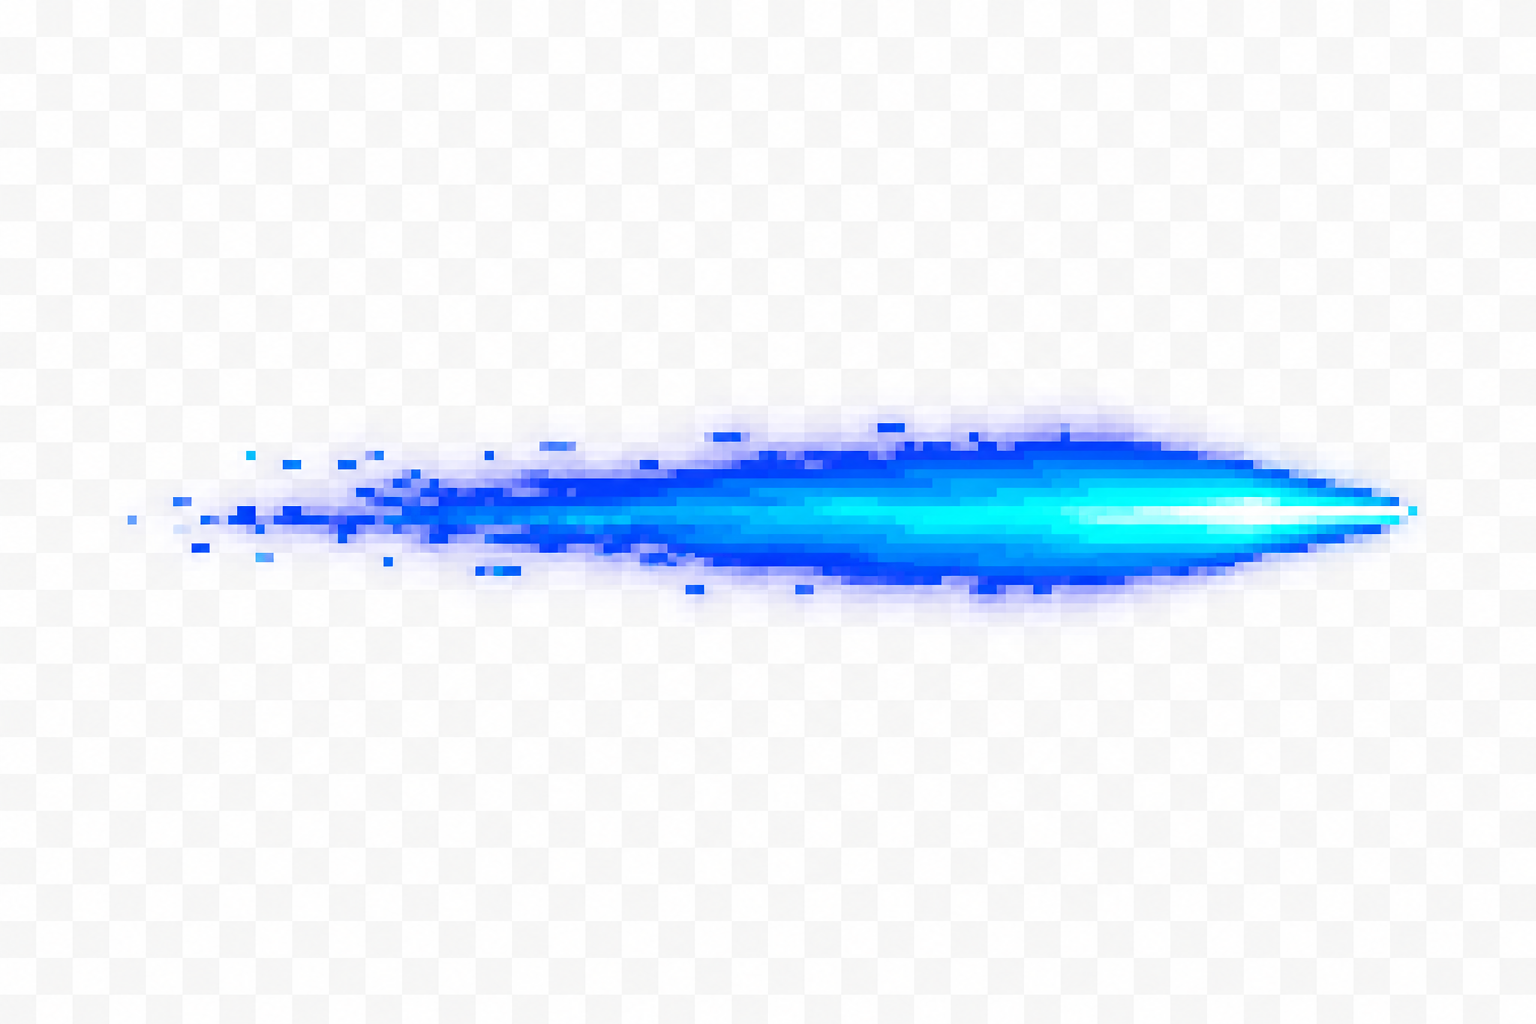
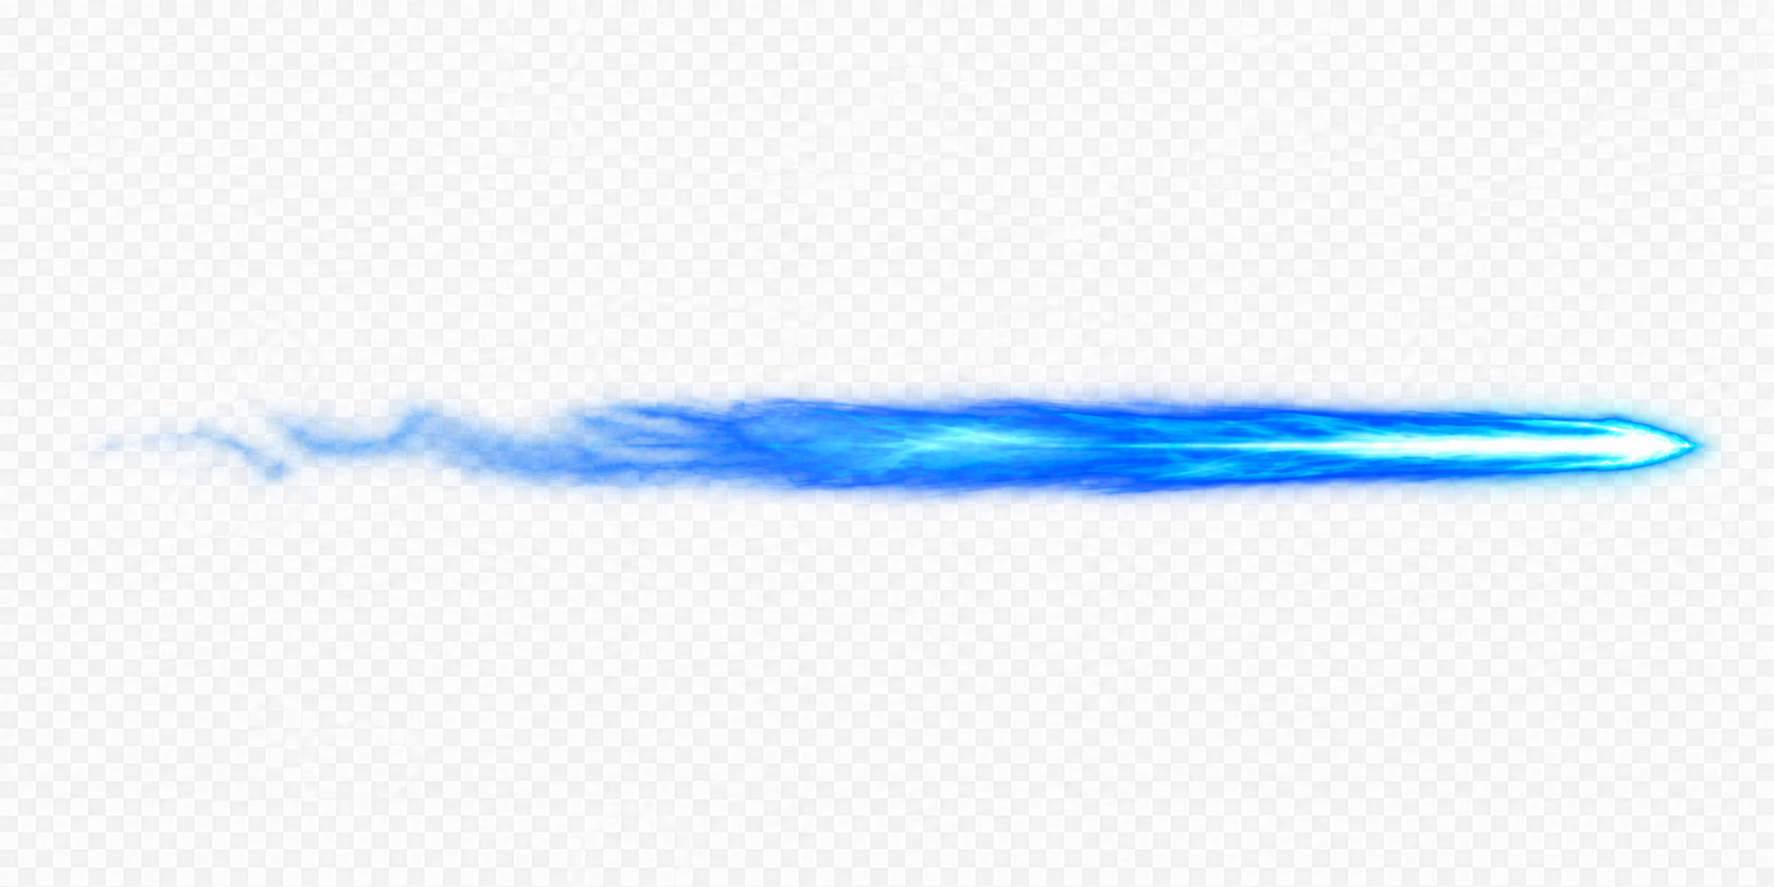
feat(voidspace): animate rebuilt engine exhausts

Changed region(s): [[0.0625, 0.3957, 0.9688, 0.6088]]

diff --git a/voidspace/js/ship.js b/voidspace/js/ship.js
@@ -13,21 +13,23 @@
     isConnected,
   } = ModuleSystem;
   const MODULE_FRAME_SIZE = MODULE_SIZE + 1;
-  const EXHAUST_LENGTH = MODULE_SIZE * 6;
+  const EXHAUST_FPS = 16;
+  const EXHAUST_FRAME_COUNT = 16;
+  const EXHAUST_FRAME_WIDTH = 768;
+  const EXHAUST_FRAME_HEIGHT = 64;
   const LASER_MUZZLE_OFFSET = 21;
   const MODULE_LAYER_CACHE = new WeakMap();
   const EXHAUST_TEXTURE_CACHE = new WeakMap();
   const EXHAUST_TEXTURES = {
     thruster: {
-      streams: [
-        { crop: { x: 112, y: 392, width: 1320, height: 244 }, width: 512, height: 96, offset: 0, drawHeight: 18 },
-      ],
+      nozzleOffsets: [0],
+      attachmentX: -12.5,
+      drawHeight: 12,
     },
     booster: {
-      streams: [
-        { crop: { x: 16, y: 330, width: 1520, height: 170 }, width: 512, height: 96, offset: -7.6, drawHeight: 18 },
-        { crop: { x: 16, y: 458, width: 1520, height: 172 }, width: 512, height: 96, offset: 7.2, drawHeight: 18 },
-      ],
+      nozzleOffsets: [-8.2, 7.6],
+      attachmentX: -12.5,
+      drawHeight: 10.5,
     },
   };
 
@@ -83,35 +85,102 @@
     return layers;
   }
 
-  function createExhaustTexture(image, stream) {
-    const canvas = document.createElement("canvas");
-    canvas.width = stream.width;
-    canvas.height = stream.height;
-    const context = canvas.getContext("2d");
-    const crop = stream.crop;
-    context.drawImage(image, crop.x, crop.y, crop.width, crop.height, 0, 0, stream.width, stream.height);
+  function createExhaustFrames(image) {
+    const sourceWidth = image.naturalWidth || image.width;
+    const sourceHeight = image.naturalHeight || image.height;
+    const source = document.createElement("canvas");
+    source.width = sourceWidth;
+    source.height = sourceHeight;
+    const sourceContext = source.getContext("2d");
+    sourceContext.drawImage(image, 0, 0);
 
-    const imageData = context.getImageData(0, 0, stream.width, stream.height);
+    const imageData = sourceContext.getImageData(0, 0, sourceWidth, sourceHeight);
     const pixels = imageData.data;
+    let minX = sourceWidth;
+    let minY = sourceHeight;
+    let maxX = 0;
+    let maxY = 0;
     for (let index = 0; index < pixels.length; index += 4) {
       const red = pixels[index];
       const green = pixels[index + 1];
       const blue = pixels[index + 2];
-      const signal = Math.max(blue - red, green - red, 0);
-      pixels[index + 3] = signal <= 2 ? 0 : Math.min(255, Math.round((signal - 2) * 18 + 35));
+      const coolLead = Math.max(blue, green) - red;
+      const saturation = Math.max(red, green, blue) - Math.min(red, green, blue);
+      const alpha = coolLead <= 3 || saturation <= 4 ? 0 : Math.min(255, Math.round((coolLead - 3) * 12 + saturation * 0.7));
+      pixels[index + 3] = alpha;
+      if (alpha <= 8) continue;
+      const pixelIndex = index / 4;
+      const x = pixelIndex % sourceWidth;
+      const y = Math.floor(pixelIndex / sourceWidth);
+      minX = Math.min(minX, x);
+      minY = Math.min(minY, y);
+      maxX = Math.max(maxX, x);
+      maxY = Math.max(maxY, y);
     }
-    context.putImageData(imageData, 0, 0);
-    return canvas;
+    sourceContext.putImageData(imageData, 0, 0);
+
+    if (minX > maxX || minY > maxY) return [];
+    const padding = 4;
+    minX = Math.max(0, minX - padding);
+    minY = Math.max(0, minY - padding);
+    maxX = Math.min(sourceWidth - 1, maxX + padding);
+    maxY = Math.min(sourceHeight - 1, maxY + padding);
+
+    const base = document.createElement("canvas");
+    base.width = EXHAUST_FRAME_WIDTH;
+    base.height = EXHAUST_FRAME_HEIGHT;
+    const baseContext = base.getContext("2d");
+    baseContext.imageSmoothingEnabled = true;
+    baseContext.imageSmoothingQuality = "high";
+    baseContext.drawImage(
+      source,
+      minX,
+      minY,
+      maxX - minX + 1,
+      maxY - minY + 1,
+      0,
+      0,
+      EXHAUST_FRAME_WIDTH,
+      EXHAUST_FRAME_HEIGHT,
+    );
+
+    return Array.from({ length: EXHAUST_FRAME_COUNT }, (_, frameIndex) => {
+      const frame = document.createElement("canvas");
+      frame.width = EXHAUST_FRAME_WIDTH;
+      frame.height = EXHAUST_FRAME_HEIGHT;
+      const context = frame.getContext("2d");
+      const phase = (frameIndex / EXHAUST_FRAME_COUNT) * Math.PI * 2;
+      const sliceWidth = 6;
+
+      for (let x = 0; x < EXHAUST_FRAME_WIDTH; x += sliceWidth) {
+        const width = Math.min(sliceWidth, EXHAUST_FRAME_WIDTH - x);
+        const tailInfluence = 1 - x / EXHAUST_FRAME_WIDTH;
+        const yOffset =
+          (Math.sin(x * 0.052 + phase) * 1.6 + Math.sin(x * 0.117 - phase * 1.7) * 0.65) * tailInfluence;
+        const xOffset = Math.sin(x * 0.031 - phase) * 1.2 * tailInfluence;
+        context.drawImage(base, x, 0, width, EXHAUST_FRAME_HEIGHT, x + xOffset, yOffset, width + 0.5, EXHAUST_FRAME_HEIGHT);
+      }
+
+      const pulseX = EXHAUST_FRAME_WIDTH - ((frameIndex + 1) / EXHAUST_FRAME_COUNT) * EXHAUST_FRAME_WIDTH;
+      context.save();
+      context.beginPath();
+      context.rect(pulseX - 64, 0, 128, EXHAUST_FRAME_HEIGHT);
+      context.clip();
+      context.globalCompositeOperation = "lighter";
+      context.globalAlpha = 0.2;
+      context.drawImage(base, 0, 0);
+      context.restore();
+      return frame;
+    });
   }
 
-  function getExhaustTextures(type, image) {
-    if (!image || !EXHAUST_TEXTURES[type]) return null;
+  function getExhaustFrames(image) {
+    if (!image) return null;
     const cached = EXHAUST_TEXTURE_CACHE.get(image);
     if (cached) return cached;
-    const config = EXHAUST_TEXTURES[type];
-    const textures = config.streams.map((stream) => createExhaustTexture(image, stream));
-    EXHAUST_TEXTURE_CACHE.set(image, textures);
-    return textures;
+    const frames = createExhaustFrames(image);
+    EXHAUST_TEXTURE_CACHE.set(image, frames);
+    return frames;
   }
 
   function drawModuleSprite(ctx, image, definition, x, y, rotation, alpha = 1) {
@@ -225,7 +294,7 @@
       this.hp = Math.min(this.hp, this.stats.maxHp);
     }
 
-    update(dt, input, mouseWorld, game) {
+    update(dt, input, mouseWorld) {
       this.aimWorld = { x: mouseWorld.x, y: mouseWorld.y };
       const targetAngle = Math.atan2(mouseWorld.y - this.y, mouseWorld.x - this.x);
       this.angle += Utils.angleDelta(this.angle, targetAngle) * Math.min(1, dt * 12);
@@ -255,11 +324,6 @@
       this.vy *= Math.pow(0.38, dt);
       this.x += this.vx * dt;
       this.y += this.vy * dt;
-
-      if (this.thrusting && Math.random() < dt * 24) {
-        const rear = this.localToWorld(-46, 0);
-        game.particles.push(new VS.Entities.Particle(rear.x, rear.y, -this.vx * 0.18 + Utils.randomRange(-15, 15), -this.vy * 0.18 + Utils.randomRange(-15, 15), 0.45, "exhaust", 10));
-      }
     }
 
     localToWorld(localX, localY) {
@@ -329,45 +393,46 @@
       this.collisionCooldown = 0.45;
     }
 
-    drawEngineExhaust(ctx, images, time, buildMode) {
+    drawEngineExhaust(ctx, images, time) {
+      if (!this.thrusting) return;
       for (const module of this.modules) {
         if (module.type !== "thruster" && module.type !== "booster") continue;
-        const textures = getExhaustTextures(module.type, images[`exhaust_${module.type}`]);
-        if (!textures) continue;
+        const frames = getExhaustFrames(images[`exhaust_${module.type}`]);
+        if (!frames?.length) continue;
         const config = EXHAUST_TEXTURES[module.type];
         const enginePower = Utils.clamp(MODULES[module.type].thrust / MODULES.booster.thrust, 0, 1);
         const burn = 1 - Math.exp(-this.engineBurnTime * 1.35);
         const minimumLength = MODULE_SIZE * (0.75 + enginePower * 0.45);
         const maximumLength = MODULE_SIZE * (3.5 + enginePower * 2.5);
-        const exhaustLength = buildMode ? EXHAUST_LENGTH : Utils.lerp(minimumLength, maximumLength, burn);
-        const flicker = 0.88 + Math.sin(time * 15 + module.gx * 1.7 + module.gy * 2.3) * 0.12;
-        const alpha = buildMode ? 0.34 : this.thrusting ? 0.42 + burn * 0.42 : 0.08 + burn * 0.18;
+        const exhaustLength = Utils.lerp(minimumLength, maximumLength, burn);
+        const modulePhase = Math.abs(module.gx * 3 + module.gy * 5);
+        const animationTick = Math.floor(time * EXHAUST_FPS) + modulePhase;
+        const alpha = 0.58 + burn * 0.38;
         ctx.save();
-        ctx.globalAlpha = alpha * flicker;
+        ctx.globalAlpha = alpha;
         ctx.globalCompositeOperation = "lighter";
         ctx.translate(module.gx * MODULE_SIZE, module.gy * MODULE_SIZE);
         ctx.rotate((Number(module.rotation) || 0) * (Math.PI / 2));
-        for (let index = 0; index < config.streams.length; index += 1) {
-          const stream = config.streams[index];
-          const drawHeight = stream.drawHeight * (0.94 + flicker * 0.06);
+        for (let index = 0; index < config.nozzleOffsets.length; index += 1) {
+          const frame = frames[(animationTick + index * 4) % frames.length];
           ctx.drawImage(
-            textures[index],
-            -MODULE_SIZE / 2 - exhaustLength,
-            stream.offset - drawHeight / 2,
+            frame,
+            config.attachmentX - exhaustLength,
+            config.nozzleOffsets[index] - config.drawHeight / 2,
             exhaustLength,
-            drawHeight,
+            config.drawHeight,
           );
         }
         ctx.restore();
       }
     }
 
-    drawExhaust(ctx, camera, viewport, images, time = 0, buildMode = false) {
+    drawExhaust(ctx, camera, viewport, images, time = 0) {
       const center = Utils.worldToScreen(this, camera, viewport.width, viewport.height);
       ctx.save();
       ctx.translate(center.x, center.y);
       ctx.rotate(this.angle);
-      this.drawEngineExhaust(ctx, images, time, buildMode);
+      this.drawEngineExhaust(ctx, images, time);
       ctx.restore();
     }
 

diff --git a/voidspace/index.html b/voidspace/index.html
@@ -9,7 +9,7 @@
       content="VOIDSPACE — пиксельная космическая игра о добыче руды, модульном корабле и возвращении на станцию."
     />
     <title>VOIDSPACE // Mining Protocol</title>
-    <link rel="stylesheet" href="css/style.css?v=20260905-8" />
+    <link rel="stylesheet" href="css/style.css?v=20260905-9" />
   </head>
   <body>
     <main id="game-shell" aria-label="VOIDSPACE — браузерная игра">
@@ -139,13 +139,13 @@
       </div>
     </main>
 
-    <script src="js/utils.js?v=20260905-8" defer></script>
-    <script src="js/modules.js?v=20260905-8" defer></script>
-    <script src="js/inventory.js?v=20260905-8" defer></script>
-    <script src="js/entities.js?v=20260905-8" defer></script>
-    <script src="js/station.js?v=20260905-8" defer></script>
-    <script src="js/ship.js?v=20260905-8" defer></script>
-    <script src="js/game.js?v=20260905-8" defer></script>
-    <script src="js/main.js?v=20260905-8" defer></script>
+    <script src="js/utils.js?v=20260905-9" defer></script>
+    <script src="js/modules.js?v=20260905-9" defer></script>
+    <script src="js/inventory.js?v=20260905-9" defer></script>
+    <script src="js/entities.js?v=20260905-9" defer></script>
+    <script src="js/station.js?v=20260905-9" defer></script>
+    <script src="js/ship.js?v=20260905-9" defer></script>
+    <script src="js/game.js?v=20260905-9" defer></script>
+    <script src="js/main.js?v=20260905-9" defer></script>
   </body>
 </html>

diff --git a/voidspace/js/game.js b/voidspace/js/game.js
@@ -180,7 +180,7 @@
     update(dt) {
       this.time += dt;
       const mouseWorld = Utils.screenToWorld(this.mouse, this.camera, this.viewport.width, this.viewport.height);
-      this.ship.update(dt, this.input, mouseWorld, this);
+      this.ship.update(dt, this.input, mouseWorld);
       this.stationSafety(dt);
 
       this.target = null;
@@ -301,7 +301,7 @@
       ctx.clearRect(0, 0, this.viewport.width, this.viewport.height);
       this.drawBackground(time);
       this.station.draw(ctx, this.camera, this.viewport, this.images, time);
-      this.ship.drawExhaust(ctx, this.camera, this.viewport, this.images, this.time, this.buildMode);
+      this.ship.drawExhaust(ctx, this.camera, this.viewport, this.images, this.time);
       for (const pickup of this.pickups) pickup.draw(ctx, this.camera, this.viewport, this.images);
       for (const asteroid of this.asteroids) asteroid.draw(ctx, this.camera, this.viewport, this.images);
       this.drawLaser(time);
